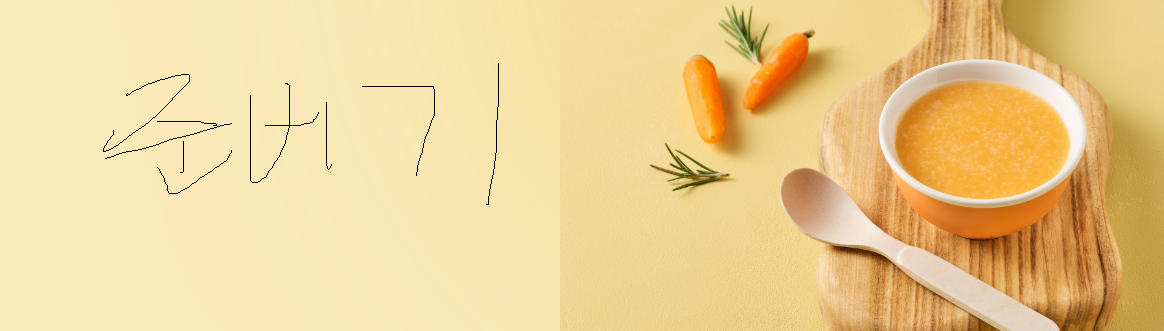
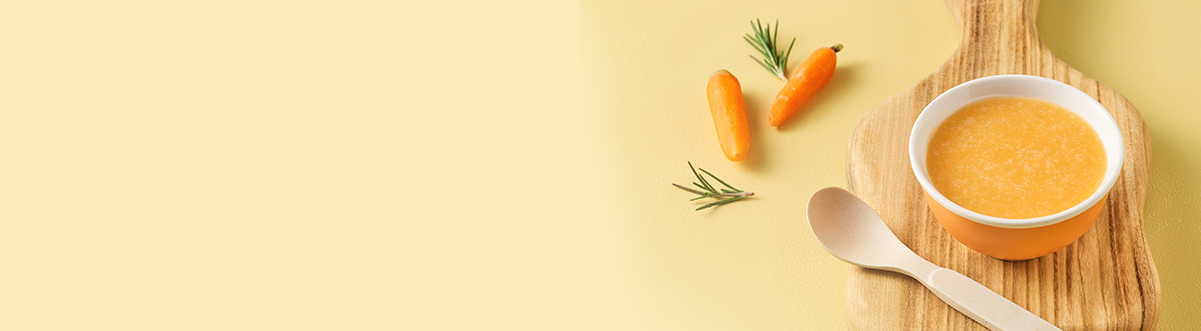
메인 케러셀 수정 / 월령별 이미지 수정

Changed region(s): [[0.4639, 0.0, 0.9897, 1.0], [0.1546, 0.3625, 0.1856, 0.3927]]

diff --git a/index.html b/index.html
@@ -224,7 +224,7 @@
               <div class="menu01 big_menu big ">
 
                 <!-- 임의로 페이지 이동 함수 추가 -->
-                <button class="gnb_item" onclick="location.href = 'SHOPWEB_UR0101.html'">식단 주문하기</button> 
+                <button class="gnb_item" onclick="location.href = 'SHOPWEB_UR0101.html'">식단 주문하기</button>
                 <div class="gnb_itemList drop01">
                   <p>이유식</p>
                   <a href="#">준비기(4-5개월)</a>
@@ -686,7 +686,7 @@
     <section class="baby_guide">
       <div class="container">
         <div class="row">
-          <div class="col-lg-11 col-md-12 col-sm-4">
+          <div class="col-lg-11 col-md-11 col-sm-4">
 
             <!-- 텍스트 -->
             <div class="baby_guide_text">
@@ -797,7 +797,8 @@
                         </div>
                         <div class="info__box">
                           <p class="text">준비기는 이유식을 처음 접하는 아이를 위한 단계입니다.
-                            처음 시도하는 만큼, 아이에게 많이 먹이기 보다 떠먹는 연습을 시키는 단계입니다. 한 가지 재료씩 시도하여 아이에게 이유식을 적응시켜 줍니다.
+                            처음 시도하는 만큼, 아이에게 많이 먹이기 보다 떠먹는 연습을 시키는 단계입니다.
+                            한 가지 재료씩 시도하여 아이에게 이유식을 적응시켜 줍니다.
                           </p>
                         </div>
                         <div class="button__box">
@@ -808,7 +809,7 @@
                   </div>
                   <div class="babyGuide_img_item">
                     <a href="">
-                      <img class="baby_guide_imgSlide" src="../assets/image/bg02.png" alt="">
+                      <img class="baby_guide_imgSlide" src="../assets/image/bg01.png" alt="">
                       <div class="m__text__box">
                         <div class="title__box">
                           <p class="title point">4-5개월</p>
@@ -819,7 +820,8 @@
                         </div>
                         <div class="info__box">
                           <p class="text">준비기는 이유식을 처음 접하는 아이를 위한 단계입니다.
-                            처음 시도하는 만큼, 아이에게 많이 먹이기 보다 떠먹는 연습을 시키는 단계입니다. 한 가지 재료씩 시도하여 아이에게 이유식을 적응시켜 줍니다.
+                            처음 시도하는 만큼, 아이에게 많이 먹이기 보다 떠먹는 연습을 시키는 단계입니다.
+                            한 가지 재료씩 시도하여 아이에게 이유식을 적응시켜 줍니다.
                           </p>
                         </div>
                         <div class="button__box">
@@ -830,7 +832,7 @@
                   </div>
                   <div class="babyGuide_img_item">
                     <a href="">
-                      <img class="baby_guide_imgSlide" src="../assets/image/bg03.png" alt="">
+                      <img class="baby_guide_imgSlide" src="../assets/image/bg01.png" alt="">
                       <div class="m__text__box">
                         <div class="title__box">
                           <p class="title point">4-5개월</p>
@@ -841,7 +843,8 @@
                         </div>
                         <div class="info__box">
                           <p class="text">준비기는 이유식을 처음 접하는 아이를 위한 단계입니다.
-                            처음 시도하는 만큼, 아이에게 많이 먹이기 보다 떠먹는 연습을 시키는 단계입니다. 한 가지 재료씩 시도하여 아이에게 이유식을 적응시켜 줍니다.
+                            처음 시도하는 만큼, 아이에게 많이 먹이기 보다 떠먹는 연습을 시키는 단계입니다.
+                            한 가지 재료씩 시도하여 아이에게 이유식을 적응시켜 줍니다.
                           </p>
                         </div>
                         <div class="button__box">
@@ -852,7 +855,7 @@
                   </div>
                   <div class="babyGuide_img_item">
                     <a href="">
-                      <img class="baby_guide_imgSlide" src="../assets/image/bg04.png" alt="">
+                      <img class="baby_guide_imgSlide" src="../assets/image/bg01.png" alt="">
                       <div class="m__text__box">
                         <div class="title__box">
                           <p class="title point">4-5개월</p>
@@ -863,7 +866,8 @@
                         </div>
                         <div class="info__box">
                           <p class="text">준비기는 이유식을 처음 접하는 아이를 위한 단계입니다.
-                            처음 시도하는 만큼, 아이에게 많이 먹이기 보다 떠먹는 연습을 시키는 단계입니다. 한 가지 재료씩 시도하여 아이에게 이유식을 적응시켜 줍니다.
+                            처음 시도하는 만큼, 아이에게 많이 먹이기 보다 떠먹는 연습을 시키는 단계입니다.
+                            한 가지 재료씩 시도하여 아이에게 이유식을 적응시켜 줍니다.
                           </p>
                         </div>
                         <div class="button__box">
@@ -874,7 +878,7 @@
                   </div>
                   <div class="babyGuide_img_item">
                     <a href="">
-                      <img class="baby_guide_imgSlide" src="../assets/image/bg05.png" alt="">
+                      <img class="baby_guide_imgSlide" src="../assets/image/bg01.png" alt="">
                       <div class="m__text__box">
                         <div class="title__box">
                           <p class="title point">4-5개월</p>
@@ -885,7 +889,8 @@
                         </div>
                         <div class="info__box">
                           <p class="text">준비기는 이유식을 처음 접하는 아이를 위한 단계입니다.
-                            처음 시도하는 만큼, 아이에게 많이 먹이기 보다 떠먹는 연습을 시키는 단계입니다. 한 가지 재료씩 시도하여 아이에게 이유식을 적응시켜 줍니다.
+                            처음 시도하는 만큼, 아이에게 많이 먹이기 보다 떠먹는 연습을 시키는 단계입니다.
+                            한 가지 재료씩 시도하여 아이에게 이유식을 적응시켜 줍니다.
                           </p>
                         </div>
                         <div class="button__box">
@@ -896,7 +901,7 @@
                   </div>
                   <div class="babyGuide_img_item">
                     <a href="">
-                      <img class="baby_guide_imgSlide" src="../assets/image/bg06.png" alt="">
+                      <img class="baby_guide_imgSlide" src="../assets/image/bg01.png" alt="">
                       <div class="m__text__box">
                         <div class="title__box">
                           <p class="title point">4-5개월</p>
@@ -907,7 +912,8 @@
                         </div>
                         <div class="info__box">
                           <p class="text">준비기는 이유식을 처음 접하는 아이를 위한 단계입니다.
-                            처음 시도하는 만큼, 아이에게 많이 먹이기 보다 떠먹는 연습을 시키는 단계입니다. 한 가지 재료씩 시도하여 아이에게 이유식을 적응시켜 줍니다.
+                            처음 시도하는 만큼, 아이에게 많이 먹이기 보다 떠먹는 연습을 시키는 단계입니다.
+                            한 가지 재료씩 시도하여 아이에게 이유식을 적응시켜 줍니다.
                           </p>
                         </div>
                         <div class="button__box">
@@ -918,7 +924,7 @@
                   </div>
                   <div class="babyGuide_img_item">
                     <a href="">
-                      <img class="baby_guide_imgSlide" src="../assets/image/bg07.png" alt="">
+                      <img class="baby_guide_imgSlide" src="../assets/image/bg01.png" alt="">
                       <div class="m__text__box">
                         <div class="title__box">
                           <p class="title point">4-5개월</p>
@@ -929,7 +935,8 @@
                         </div>
                         <div class="info__box">
                           <p class="text">준비기는 이유식을 처음 접하는 아이를 위한 단계입니다.
-                            처음 시도하는 만큼, 아이에게 많이 먹이기 보다 떠먹는 연습을 시키는 단계입니다. 한 가지 재료씩 시도하여 아이에게 이유식을 적응시켜 줍니다.
+                            처음 시도하는 만큼, 아이에게 많이 먹이기 보다 떠먹는 연습을 시키는 단계입니다.
+                            한 가지 재료씩 시도하여 아이에게 이유식을 적응시켜 줍니다.
                           </p>
                         </div>
                         <div class="button__box">
@@ -940,7 +947,7 @@
                   </div>
                   <div class="babyGuide_img_item">
                     <a href="">
-                      <img class="baby_guide_imgSlide" src="../assets/image/bg08.png" alt="">
+                      <img class="baby_guide_imgSlide" src="../assets/image/bg01.png" alt="">
                       <div class="m__text__box">
                         <div class="title__box">
                           <p class="title point">4-5개월</p>
@@ -951,7 +958,8 @@
                         </div>
                         <div class="info__box">
                           <p class="text">준비기는 이유식을 처음 접하는 아이를 위한 단계입니다.
-                            처음 시도하는 만큼, 아이에게 많이 먹이기 보다 떠먹는 연습을 시키는 단계입니다. 한 가지 재료씩 시도하여 아이에게 이유식을 적응시켜 줍니다.
+                            처음 시도하는 만큼, 아이에게 많이 먹이기 보다 떠먹는 연습을 시키는 단계입니다.
+                            한 가지 재료씩 시도하여 아이에게 이유식을 적응시켜 줍니다.
                           </p>
                         </div>
                         <div class="button__box">
@@ -962,7 +970,7 @@
                   </div>
                   <div class="babyGuide_img_item">
                     <a href="">
-                      <img class="baby_guide_imgSlide" src="../assets/image/bg09.png" alt="">
+                      <img class="baby_guide_imgSlide" src="../assets/image/bg01.png" alt="">
                       <div class="m__text__box">
                         <div class="title__box">
                           <p class="title point">4-5개월</p>
@@ -973,7 +981,8 @@
                         </div>
                         <div class="info__box">
                           <p class="text">준비기는 이유식을 처음 접하는 아이를 위한 단계입니다.
-                            처음 시도하는 만큼, 아이에게 많이 먹이기 보다 떠먹는 연습을 시키는 단계입니다. 한 가지 재료씩 시도하여 아이에게 이유식을 적응시켜 줍니다.
+                            처음 시도하는 만큼, 아이에게 많이 먹이기 보다 떠먹는 연습을 시키는 단계입니다.
+                            한 가지 재료씩 시도하여 아이에게 이유식을 적응시켜 줍니다.
                           </p>
                         </div>
                         <div class="button__box">
@@ -984,7 +993,7 @@
                   </div>
                   <div class="babyGuide_img_item">
                     <a href="">
-                      <img class="baby_guide_imgSlide" src="../assets/image/bg10.png" alt="">
+                      <img class="baby_guide_imgSlide" src="../assets/image/bg01.png" alt="">
                       <div class="m__text__box">
                         <div class="title__box">
                           <p class="title point">4-5개월</p>
@@ -995,7 +1004,8 @@
                         </div>
                         <div class="info__box">
                           <p class="text">준비기는 이유식을 처음 접하는 아이를 위한 단계입니다.
-                            처음 시도하는 만큼, 아이에게 많이 먹이기 보다 떠먹는 연습을 시키는 단계입니다. 한 가지 재료씩 시도하여 아이에게 이유식을 적응시켜 줍니다.
+                            처음 시도하는 만큼, 아이에게 많이 먹이기 보다 떠먹는 연습을 시키는 단계입니다.
+                            한 가지 재료씩 시도하여 아이에게 이유식을 적응시켜 줍니다.
                           </p>
                         </div>
                         <div class="button__box">

diff --git a/assets/css/style/baby-main-003.css b/assets/css/style/baby-main-003.css
@@ -114,8 +114,9 @@
 .babyGuide_img_list{
   width: 100%;
 }
-.baby_guide_imgSlide{
+.babyGuide_img .baby_guide_imgSlide{
   width: 100%;
+  display: none;
 }
 
 .babyGuide_carousel {
@@ -135,9 +136,9 @@
 }
 
 .m__text__box{
-  display: none;
-  background-color: #fbfbfb;
-  padding: 30px;
+  background: url(/assets/image/bg01.png) center / cover no-repeat;
+  
+  padding: 40px;
 }
 
 .m__text__box .title__box{
@@ -177,7 +178,7 @@
   color: var(--color-best-product-text);
 }
 .m__text__box .button__box{
-  margin-top: 20px;
+  margin-top: 40px;
   display: flex;
 
 }
@@ -220,6 +221,14 @@
 }
 
 @media all and (max-width: 767px) {
+  .babyGuide_img .baby_guide_imgSlide{
+    display: block;
+  }
+  .m__text__box{
+    background: #fbfbfb;
+    padding: 30px;
+  }
+
   .baby_guide_btn,
   .w-il_comment,
   .bg-row-name {

diff --git a/assets/js/mainCarousel.js b/assets/js/mainCarousel.js
@@ -13,13 +13,14 @@ window.addEventListener('DOMContentLoaded', () => {
       appendArrows: ".slick-list",
       dotsClass: "custom-dot",
       asNavFor: '.carousel-box',
-      // slidesToShow : 1,
+      centerPadding: '230px',
+      focusOnSelect: true,
       infinite: true,
       responsive: [
         {
           breakpoint: 1440,
           settings: {
-            centerPadding: '230px',
+            centerPadding: '100px',
           }
         },
         {
@@ -44,6 +45,7 @@ window.addEventListener('DOMContentLoaded', () => {
       asNavFor: '.slick',
       infinite: true,
       swipeToSlide: true,
+      focusOnSelect: true,
       responsive: [
         {
           breakpoint: 1440,

diff --git a/assets/css/style/baby-main-001.css b/assets/css/style/baby-main-001.css
@@ -32,7 +32,6 @@
 }
 
 .main_banner .carousel-navigation .carousel-box .item {
-  max-width: 270px;
   transition: .2s;
 }
 
@@ -153,7 +152,7 @@
     width: 100%;
   }
 
-  .slick-list {
+  .carousel-navigation .slick-list {
     border: 1px solid var(--color-tmp2);
   }
   
